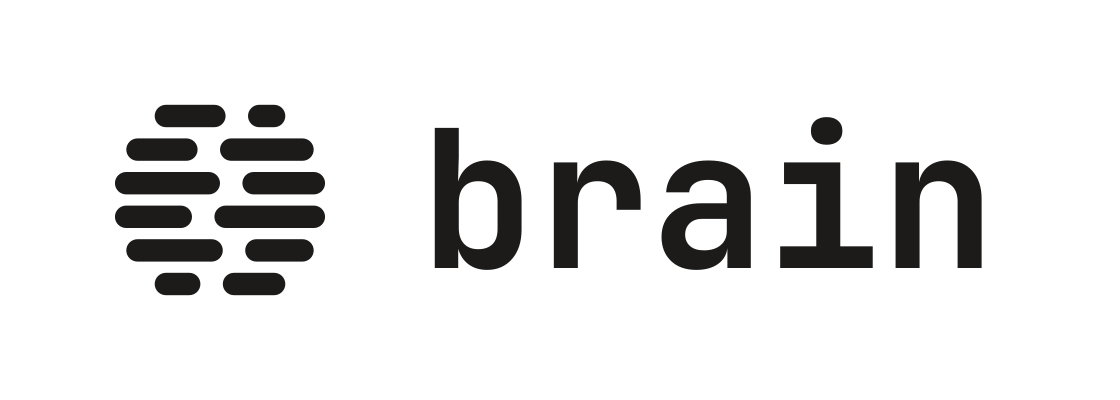
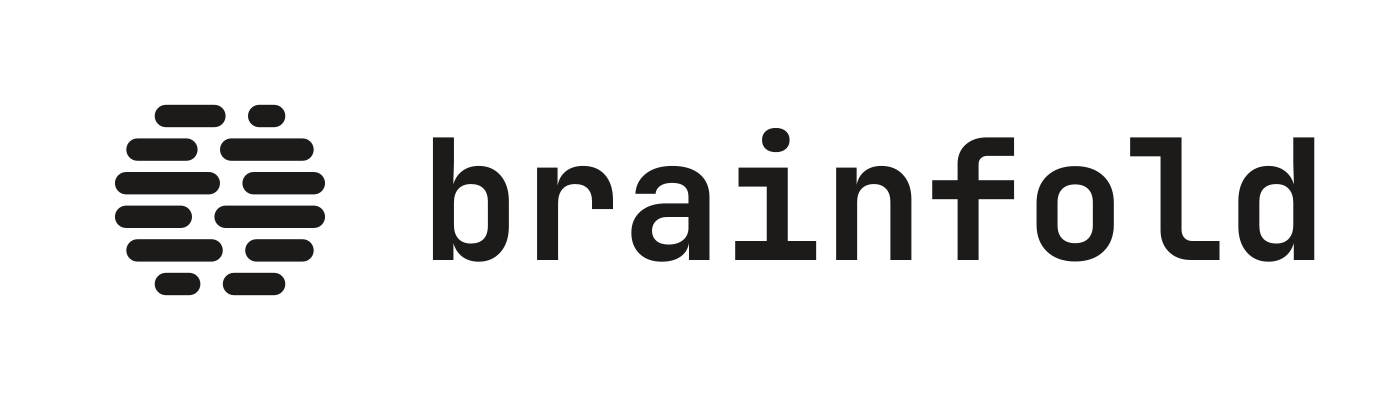
branding: name the product brainfold
The command stays brain and the vault stays a Brain; brainfold is the
name on the hero, the lab's lockups and the README. "brain" alone is
generic and sits next to registered marks in the notes class; a coined
compound is defensible in use, and the fold is what the mark draws. The
hero canvas widens for the longer wordmark. The branding README carries
the trademark line that keeps the name and mark out of the code licence.

Changed region(s): [[0.0625, 0.24, 0.9375, 0.75]]

diff --git a/branding/README.md b/branding/README.md
@@ -1,19 +1,19 @@
 # branding
 
-The mark, the hero lockup and the platform badges, each in a light and a
+brainfold's mark, the hero lockup and the platform badges, each in a light and a
 dark version. `just branding` regenerates the mark and hero from
 `tools/logo`; the badges are static.
 
 | file | what it is |
 |------|------------|
 | `mark-{light,dark}.{svg,png}` | the fissure mark alone, transparent, 1024 px PNG |
-| `hero-{light,dark}.{svg,png}` | mark and wordmark, for the README |
+| `hero-{light,dark}.{svg,png}` | mark and the brainfold wordmark, for the README |
 | `badge-{linux,macos,windows}-{light,dark}.svg` | platform badges beside the install commands |
 
 Ink is `#1c1b1a` on light, `#f0eee8` on dark. The wordmark and badge
 labels are JetBrains Mono Bold, named rather than embedded, so a renderer
 without it falls back to its own monospace.
 
-The Tux and Apple glyphs in the badges are from
+The brainfold name and mark are not covered by the code licence; use them to refer to the project, not to imply endorsement. The Tux and Apple glyphs in the badges are from
 [Simple Icons](https://simpleicons.org) (CC0). The Windows badge uses a
 generic four-pane glyph, not the Windows logo.

diff --git a/README.md b/README.md
@@ -1,11 +1,11 @@
 <p align="center">
   <picture>
     <source media="(prefers-color-scheme: dark)" srcset="branding/hero-dark.svg">
-    <img src="branding/hero-light.svg" alt="brain" width="480">
+    <img src="branding/hero-light.svg" alt="brainfold" width="560">
   </picture>
 </p>
 
-<p align="center">A notes vault your AI agents can search.<br>Plain markdown. One binary. Nothing to host.</p>
+<p align="center"><b>brainfold</b> is a notes vault your AI agents can search.<br>Plain markdown. One binary. Nothing to host. The command is <code>brain</code>.</p>
 
 ## Install
 
